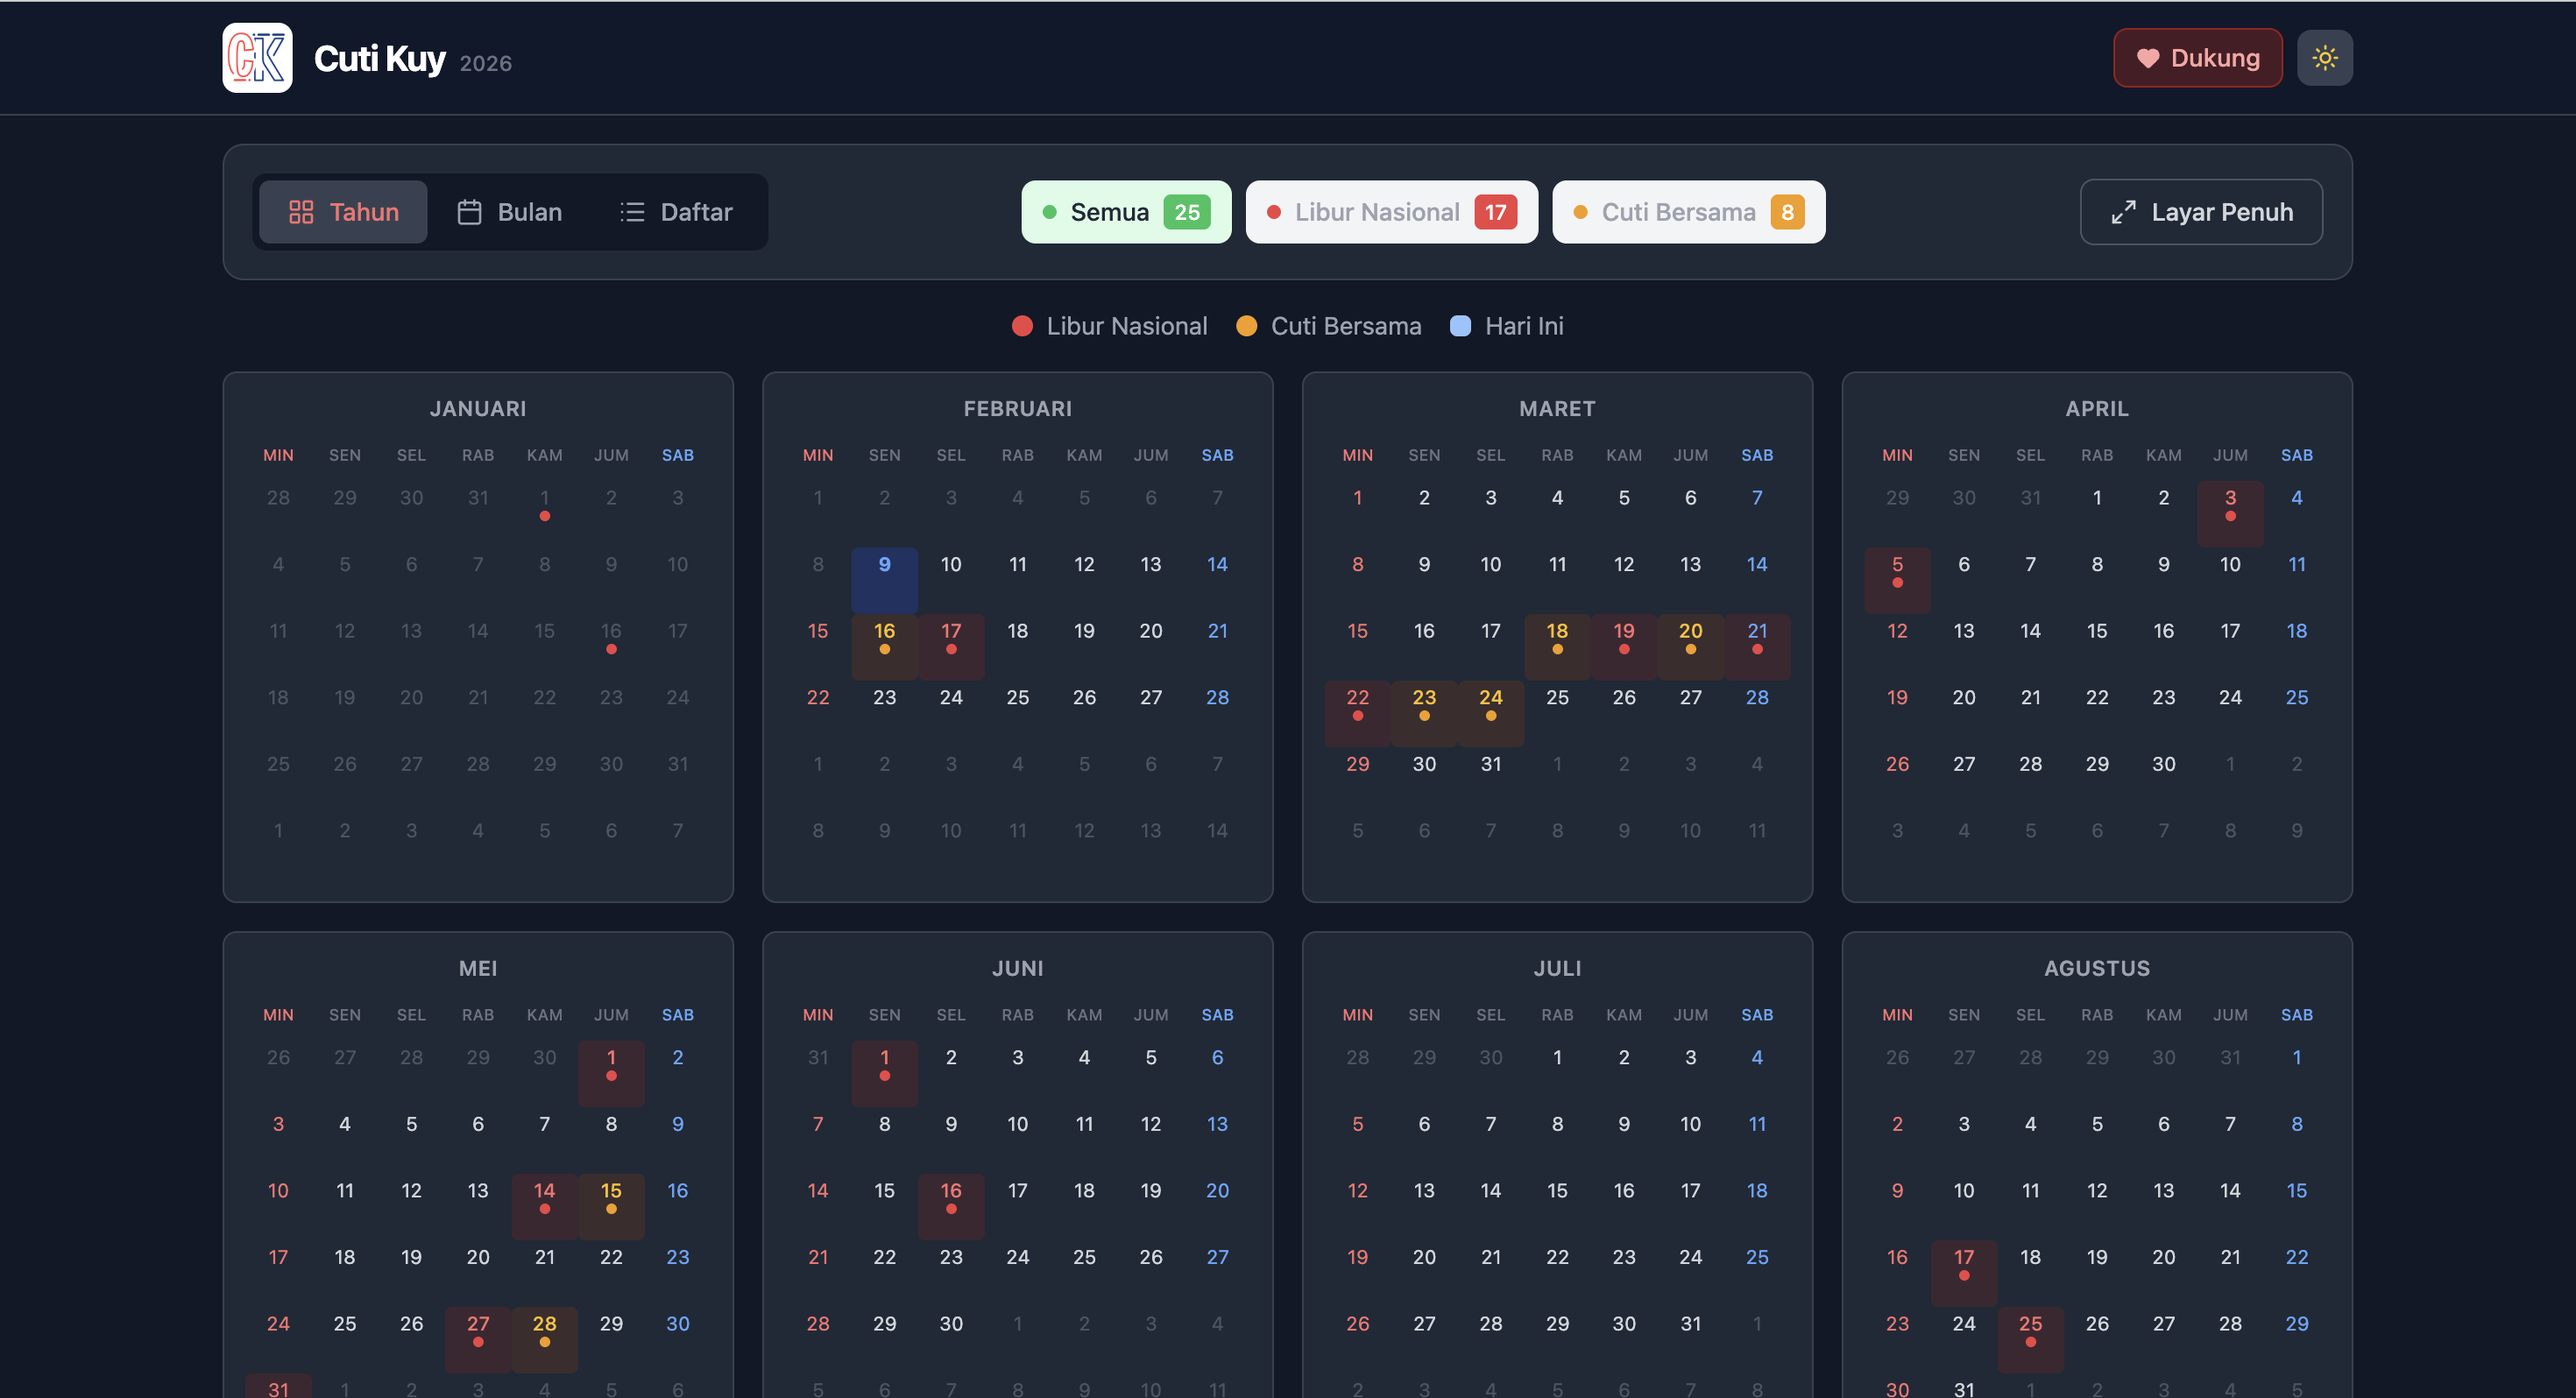
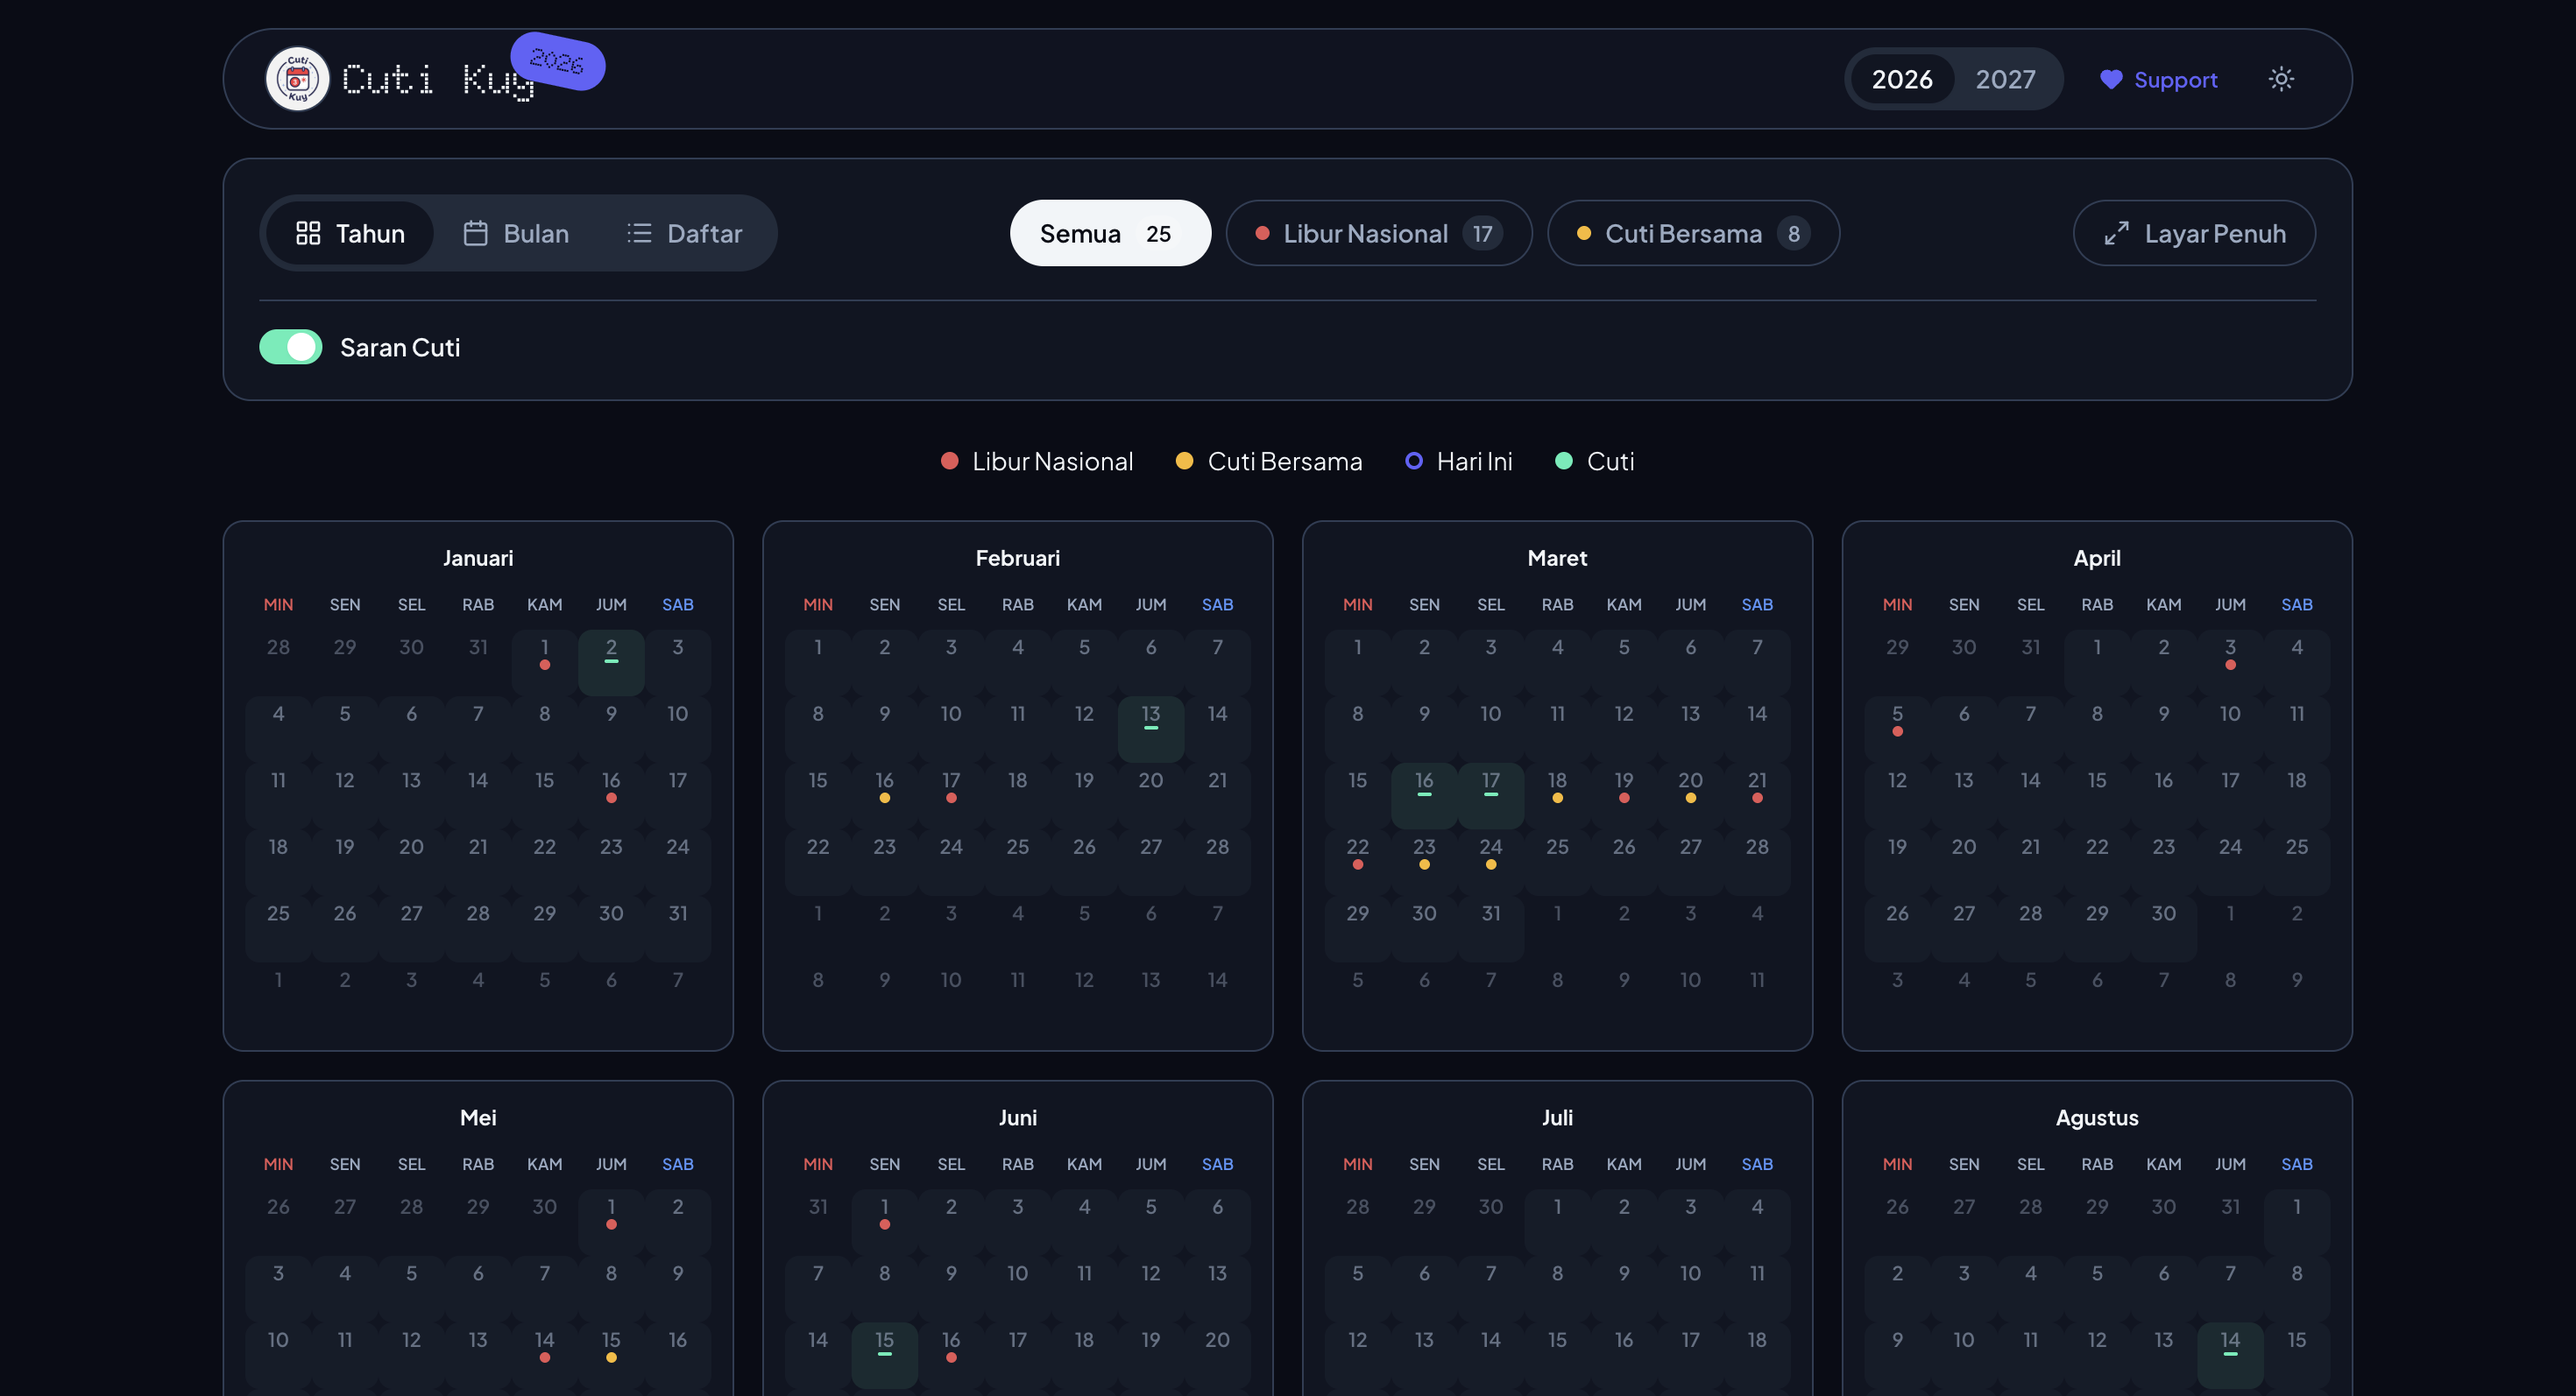
feat(README): update application description for 2026 & 2027 and enhance feature list feat(images): add new screenshot and update existing screenshot for web app

diff --git a/README.md b/README.md
@@ -1,18 +1,21 @@
-# 🇮🇩 Cuti Kuy - Kalender Hari Libur Nasional Indonesia 2026
+# 🇮🇩 Cuti Kuy - Kalender Hari Libur Nasional Indonesia
 
-Aplikasi kalender interaktif untuk melihat hari libur nasional dan cuti bersama Indonesia tahun 2026 berdasarkan SKB 3 Menteri.
+Aplikasi kalender interaktif untuk melihat hari libur nasional dan cuti bersama Indonesia tahun 2026 & 2027 berdasarkan SKB 3 Menteri.
 
 ![Cuti Kuy Logo](/public/screenshoot-web-app.png)
 
 ## ✨ Features
 
 - 📅 **3 View Modes**: Tahun (Year), Bulan (Month), Daftar (List)
-- 🌙 **Dark/Light Mode**: Smooth transition between themes
+- 🗓 **Year Selector**: Ganti tahun kalender 2026 | 2027 dari header
+- 💡 **Saran Ambil Cuti**: Rekomendasi hari cuti tahunan & cuti penghubung akhir tahun (termasuk libur 11 hari saat Natal/Tahun Baru) dengan tooltip interaktif
+- 🌙 **Dark/Light Mode**: Smooth transition with dark mode as default
 - 🔍 **Filter**: Libur Nasional, Cuti Bersama, atau Semua
 - 🎨 **Color Coded**:
   - 🔴 Merah = Libur Nasional
   - 🟠 Kuning = Cuti Bersama
   - 🔵 Biru = Hari Ini
+  - 🟢 Hijau = Saran Cuti
 - 📱 **Responsive**: Works on desktop, tablet, and mobile
 - 💝 **Trakteer Integration**: Support the developer
 
@@ -20,125 +23,9 @@ Aplikasi kalender interaktif untuk melihat hari libur nasional dan cuti bersama 
 
 [https://cuti-kuy.netlify.app](https://cuti-kuy.netlify.app) _(Coming soon)_
 
-## 🛠 Tech Stack
-
-- **Frontend**: React + Vite
-- **Styling**: Tailwind CSS
-- **Icons**: Lucide React
-- **Deployment**: Netlify
-
-## 📦 Installation
-
-```bash
-# Clone repository
-git clone https://github.com/YOUR_USERNAME/cuti-kuy.git
-cd cuti-kuy
-
-# Install dependencies
-npm install
-
-# Run development server
-npm run dev
-
-# Build for production
-npm run build
-```
-
-## 🚀 Deployment
-
-### Option 1: Deploy to Netlify (Recommended)
-
-#### Method A: Git-based Deployment (Automatic)
-
-1. **Push to GitHub:**
-
-   ```bash
-   # Create new repository on GitHub first, then:
-   git remote add origin https://github.com/YOUR_USERNAME/cuti-kuy.git
-   git add .
-   git commit -m "Initial commit"
-   git push -u origin main
-   ```
-
-2. **Connect to Netlify:**
-   - Go to [netlify.com](https://netlify.com) and sign in
-   - Click "Add new site" → "Import an existing project"
-   - Choose GitHub and authorize Netlify
-   - Select your `cuti-kuy` repository
-   - Build settings will be auto-detected from `netlify.toml`:
-     - Build command: `npm run build`
-     - Publish directory: `dist`
-   - Click "Deploy site"
-
-3. **Done!** Your site will be live at `https://cuti-kuy-xxx.netlify.app`
-
-#### Method B: Drag & Drop (Manual)
-
-1. Build the project:
-
-   ```bash
-   npm run build
-   ```
-
-2. Go to [netlify.com](https://netlify.com)
-
-3. Drag and drop the `dist` folder to the deploy area
-
-4. Your site is live!
-
-### Option 2: Deploy to Vercel
-
-```bash
-# Install Vercel CLI
-npm i -g vercel
-
-# Deploy
-vercel
-```
-
-### Option 3: Deploy to GitHub Pages
-
-```bash
-# Install gh-pages
-npm install --save-dev gh-pages
-
-# Add to package.json scripts:
-# "predeploy": "npm run build",
-# "deploy": "gh-pages -d dist"
-
-# Deploy
-npm run deploy
-```
-
-## 📁 Project Structure
-
-```
-cuti-kuy/
-├── public/
-│   ├── cuti-kuy-logo.png    # Logo & favicon
-│   └── vite.svg
-├── src/
-│   ├── components/
-│   │   ├── CalendarMonth.jsx   # Month calendar component
-│   │   ├── CalendarView.jsx    # Main calendar view
-│   │   ├── Footer.jsx          # Footer component
-│   │   └── Header.jsx          # Header with logo & toggle
-│   ├── data/
-│   │   └── holidays.js         # Indonesia holidays data 2026
-│   ├── App.jsx
-│   ├── App.css
-│   ├── index.css
-│   └── main.jsx
-├── index.html
-├── netlify.toml              # Netlify configuration
-├── package.json
-├── tailwind.config.js
-└── README.md
-```
-
 ## 📝 Data Source
 
-Hari libur nasional Indonesia 2026 berdasarkan:
+Hari libur nasional Indonesia 2026 & 2027 berdasarkan:
 
 - SKB 3 Menteri (Kemenag, Kemenaker, Kemendikbud)
 - Tanggal dapat berubah berdasarkan penetapan pemerintah
